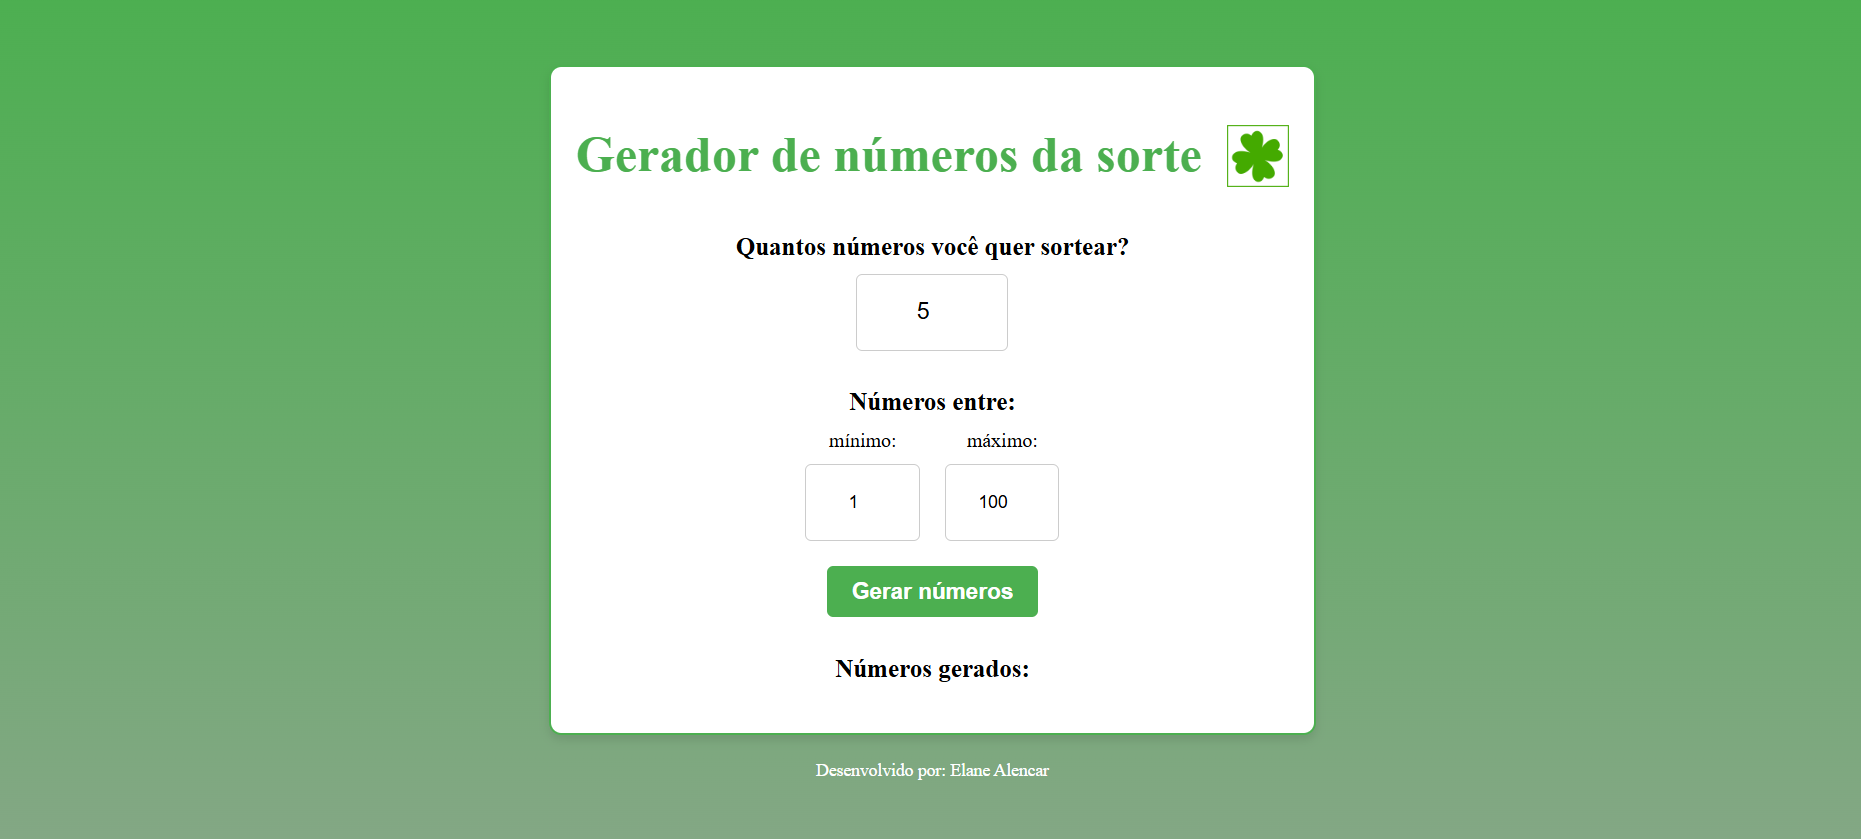
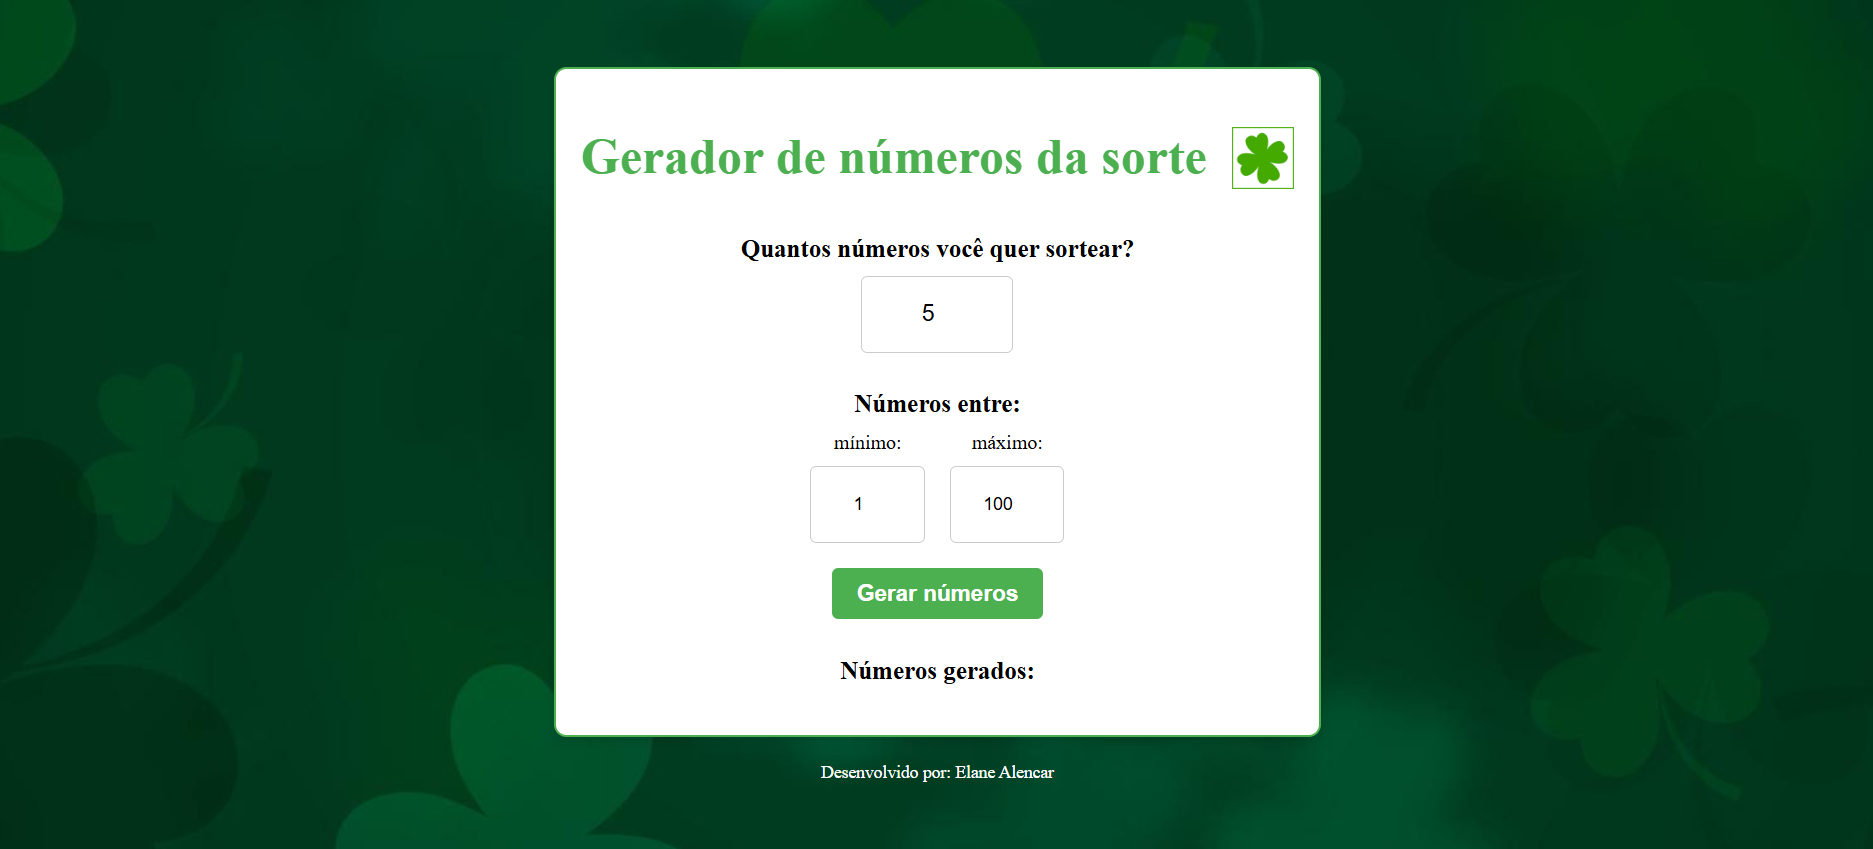
edit background

diff --git a/style.css b/style.css
@@ -8,8 +8,9 @@ body {
     align-items: center;
     font-style: "Roboto", "DM Sans", sans-serif;
     font-size: 20px;
-    background: linear-gradient(to bottom, #396f3b, #85a786);
-
+    background: url('./assets/bg.jpg');
+    background-position: center;
+    background-repeat: no-repeat;
 }
 
 .card {
